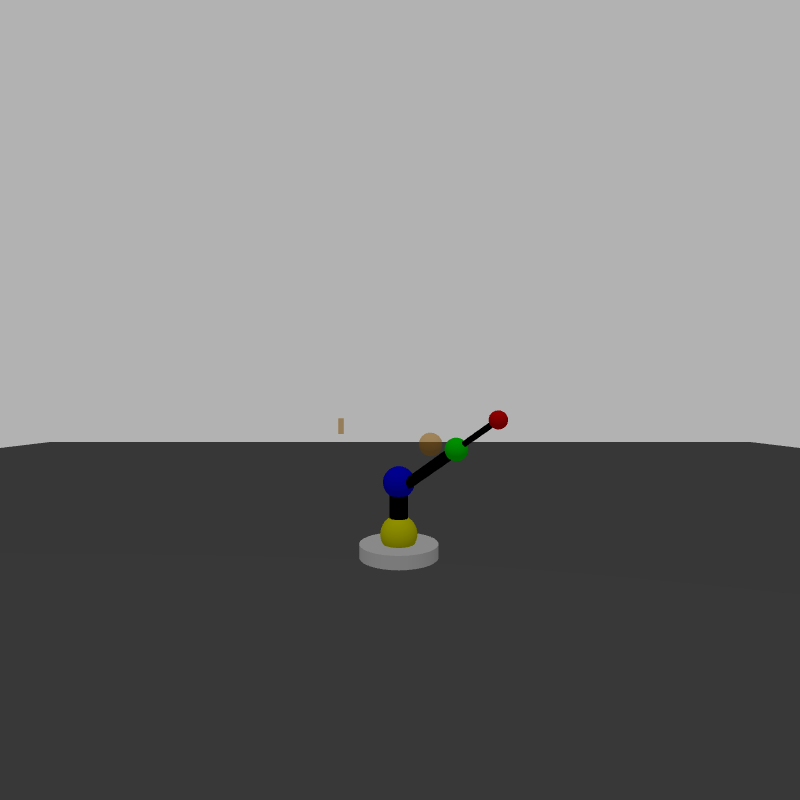
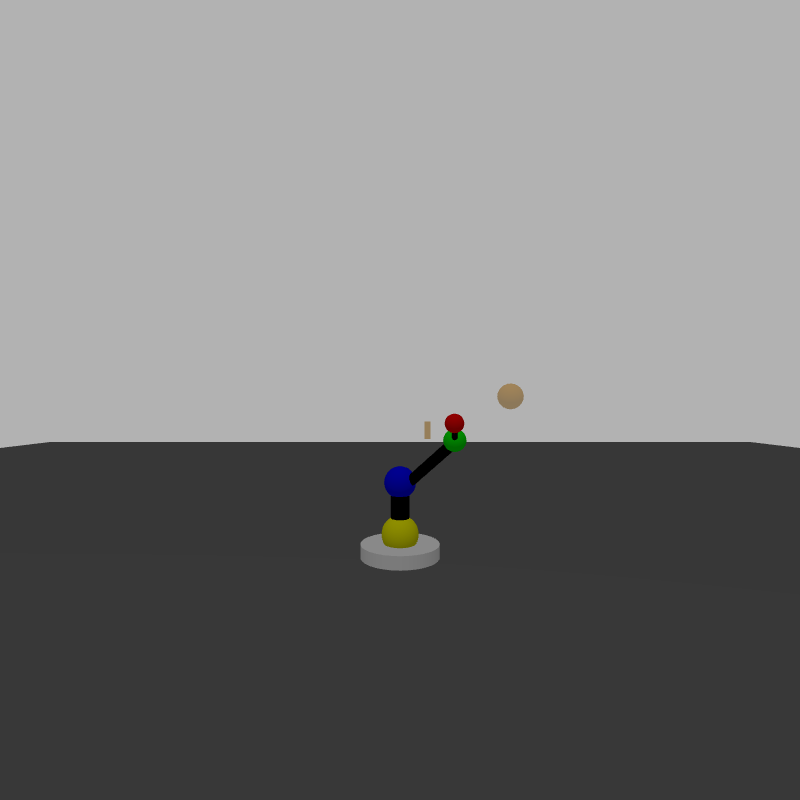
Found pixel positions of the target box

Changed region(s): [[0.5, 0.4688, 0.6562, 0.625]]

diff --git a/src/ivr_assignment/src/find_angles.py b/src/ivr_assignment/src/find_angles.py
@@ -20,10 +20,6 @@ def extractYellow(image):
 	red_part = cv2.inRange(image, np.array([0,110,110]), np.array([5,255,255]))
 	return red_part
 
-def extractOrange(image):
-	red_part = cv2.inRange(image, np.array([10,50,70]), np.array([120,140,160]))
-	return red_part
-
 def findMean(img):
 	# convert the grayscale image to binary image
 	ret,thresh = cv2.threshold(img,127,255,0)
@@ -36,7 +32,7 @@ def findMean(img):
 	return (cX,cY)
 	
 
-img = cv2.imread("image2_copy.png")
+img = cv2.imread("image1_copy.png")
 
 red_image = extractRed(img)
 red_center = (findMean (red_image))
@@ -47,24 +43,14 @@ yellow_center = findMean(yellow_image)
 green_image = extractGreen(img)
 green_center = findMean(green_image)
 
-# For now, extraction of orange is not working properly
-orange_image = extractOrange(img)
-cv2.imshow('window',orange_image)
-cv2.imwrite('orange.png',orange_image)
-cv2.waitKey(2000)
+theta1 = math.atan2((blue_center[1]-yellow_center[1]) , (blue_center[0]-yellow_center[0]))
+theta2 = math.atan2((green_center[1]-blue_center[1])  , (green_center[0]-blue_center[0]))
+theta2 -= theta1
+theta3 = math.atan2((red_center[1]-green_center[1])   , (red_center[0]-green_center[0]))
+theta3 -= (theta2+theta1)
 
-#print(red_center[0])
-
-tetha1 = math.atan2((blue_center[1]-yellow_center[1]) , (blue_center[0]-yellow_center[0]))
-tetha2 = math.atan2((green_center[1]-blue_center[1])  , (green_center[0]-blue_center[0]))
-tetha2 -= tetha1
-#tetha2 %= math.pi
-tetha3 = math.atan2((red_center[1]-green_center[1])   , (red_center[0]-green_center[0]))
-tetha3 -= (tetha2+tetha1)
-#tetha3 %= math.pi
-
-print("tetha1:", tetha1)
-print("tetha2:", tetha2)
-print("tetha3:", tetha3)
+print("theta1:", theta1)
+print("theta2:", theta2)
+print("theta3:", theta3)
 print("errors in angles becuase some portions of the joints were hidden")
 

diff --git a/src/ivr_assignment/src/get_target_position.py b/src/ivr_assignment/src/get_target_position.py
@@ -1,0 +1,66 @@
+#!/usr/bin/env python
+
+import cv2
+import math
+import numpy as np
+from cv2 import imread
+import statistics
+from find_angles import yellow_center
+
+def extractOrange(image):
+	orange_part = cv2.inRange(image, np.array([80,120,140]), np.array([90,140,155]))
+	return orange_part
+
+def findMean(img):
+	# convert the grayscale image to binary image
+	ret,thresh = cv2.threshold(img,127,255,0)
+	# calculate moments of binary image
+	M = cv2.moments(thresh)
+ 
+	# calculate x,y coordinate of center
+	cX = int(M["m10"] / M["m00"])
+	cY = int(M["m01"] / M["m00"])
+	return (cX,cY)
+	
+def locateTarget(binary_img):
+	contours = cv2.findContours(binary_img, cv2.RETR_LIST, cv2.CHAIN_APPROX_SIMPLE)
+	corner_points = contours[1][0]
+	top_left = corner_points[0][0]
+	top_right = corner_points[1][0]
+	bottom_right = corner_points[2][0]
+        bottom_left = corner_points[3][0]
+	row_cm = (top_left[0] + bottom_left[0]) / 2
+	col_cm = (top_left[1] + top_right[1]) / 2
+	return (row_cm, col_cm)
+
+
+""" CHANGE image2_copy.png to image1_copy and vv if want to see different view of robot """
+img = cv2.imread("image2_copy.png")
+
+# We need to extract the orange box, not the sphere
+# The BGR value of the orange BOX is constant because
+# it always stays in the upper region
+orange_image = extractOrange(img)
+cm = locateTarget(orange_image)
+# invert
+a,b = cm
+cm = (b,a)
+c,d = yellow_center
+yellow_center = (d,c)
+
+# print to image
+img[cm] = (255,255,255)
+img[yellow_center] = (255,255,255)
+
+cv2.imshow('window',img)
+cv2.waitKey(5000)
+
+#cv2.imshow('window',orange_image)
+#cv2.waitKey(5000)
+
+#cv2.imwrite('orange.png',orange_image)
+#cv2.waitKey(5000)
+
+""" cm IS THE POSITION OF THE CENTER OF MASS OF THE RECTANGLE IN PIXEL VALUES """
+
+

diff --git a/src/ivr_assignment/src/image2.py b/src/ivr_assignment/src/image2.py
@@ -10,7 +10,6 @@ from sensor_msgs.msg import Image
 from std_msgs.msg import Float64MultiArray, Float64
 from cv_bridge import CvBridge, CvBridgeError
 
-
 class image_converter:
 
   # Defines publisher and subscriber
@@ -33,7 +32,7 @@ class image_converter:
     except CvBridgeError as e:
       print(e)
     # Uncomment if you want to save the image
-    cv2.imwrite('image1_copy.png', self.cv_image2)
+    cv2.imwrite('image2_copy.png', self.cv_image2)
     im2=cv2.imshow('window2', self.cv_image2)
     cv2.waitKey(1)
 

diff --git a/src/ivr_assignment/src/image1.py b/src/ivr_assignment/src/image1.py
@@ -10,7 +10,6 @@ from sensor_msgs.msg import Image
 from std_msgs.msg import Float64MultiArray, Float64
 from cv_bridge import CvBridge, CvBridgeError
 
-
 class image_converter:
 
   # Defines publisher and subscriber
@@ -35,7 +34,6 @@ class image_converter:
     
     # Uncomment if you want to save the image
     cv2.imwrite('image1_copy.png', self.cv_image1)
-
     im1=cv2.imshow('window1', self.cv_image1)
     cv2.waitKey(1)
     # Publish the results
